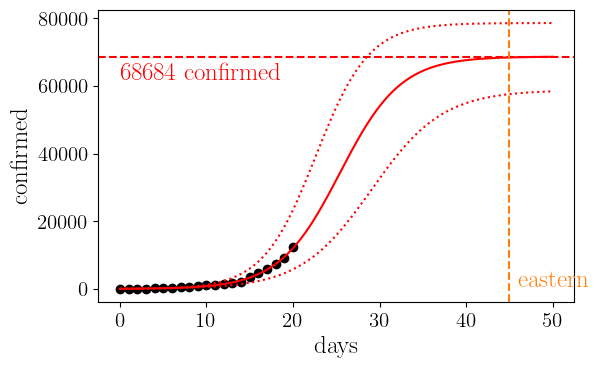
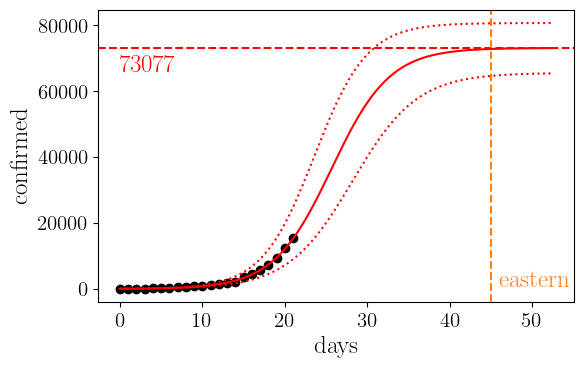
Implement scaling factor for larger populations (still an issue)

diff --git a/models.py b/models.py
@@ -19,58 +19,78 @@ class SimplePandemie:
         self.t_death = t_death
         self.t_confirmed = t_confirmed
         self.total_population = total_population
-        self.scale = 1      # scaling each case to save memory
 
         self.infected = np.zeros(nbuffer).astype(bool)
         self.infected[:infected_start] = True
         self.susceptible = total_population
-        self.dead, self.cured, self.confirmed = 0, 0, 0
+        self.infected_total, self.infected_total_confirmed = infected_start, 0
+        self.infected_day, self.infected_day_confirmed = 0, 0
+        self.dead, self.dead_day, self.cured = 0, 0, 0
         self.days = np.zeros(nbuffer).astype(np.uint)
         self.days_to_contagious = np.zeros(nbuffer).astype(np.uint)
         self.days_to_death = -np.ones(nbuffer).astype(np.int)
         self.days_to_cure = -np.ones(nbuffer).astype(np.int)
         self.days_to_detect = -np.ones(nbuffer).astype(np.int)
-        self.days_to_contagious[self.infected] = np.random.poisson(lam=t_contagious, size=infected_start)
+        self._assign_timing(np.arange(infected_start))
+
+        self.scale = 1
+        self.scale_th = 0.5
+        self.scale_each = np.ones(nbuffer).astype(int)
 
     def infect(self):
-        immune = self.cured + np.sum(self.infected)
+        immune = self.cured + np.sum(self.scale_each*self.infected)
         n_eff = self.n_p * (self.total_population - immune) / self.total_population
-        n_infections = np.sum(np.random.poisson(n_eff*self.attack_rate, size=np.sum(self.is_contagious())))
-        self.susceptible -= n_infections
-        idx = np.where(~self.infected)[0][:n_infections]
-        self.infected[idx] = True
-        self.days_to_contagious[idx] = np.random.poisson(lam=self.t_contagious, size=n_infections)
-        n_deaths = np.sum(np.random.rand(n_infections) <= self.lethality)
-        idx_dying = idx[:n_deaths]
-        idx_cure = idx[n_deaths:]
-        self.days_to_death[idx_dying] = np.random.poisson(lam=self.t_death, size=len(idx_dying))
-        self.days_to_cure[idx_cure] = np.random.poisson(lam=self.t_cured, size=len(idx_cure))
-        n_confirmed = np.sum(np.random.rand(n_infections - n_deaths) <= self.detection_rate)
-        idx_confirmed = idx[:(n_deaths + n_confirmed)]
-        self.days_to_detect[idx_confirmed] = np.random.poisson(lam=self.t_confirmed, size=n_confirmed + n_deaths)
-
-    def _reset(self, idx):
-        self.infected[idx] = False
-        self.days[idx] = 0
-        self.days_to_contagious[idx] = 0
-        self.days_to_death[idx] = -1
-        self.days_to_cure[idx] = -1
-        self.days_to_detect[idx] = -1
-
-    def die(self):
-        idx = self.is_dead()
-        self.dead += np.sum(idx)
-        self.total_population -= np.sum(idx)
-        self._reset(idx)
-
-    def cure(self):
-        idx = self.is_cured()
-        self.cured += np.sum(idx)
-        self._reset(idx)
+        self.infected_day = np.sum(np.random.poisson(n_eff*self.attack_rate, size=np.sum(self.scale_each*self.is_contagious())))
+        self.infected_total += self.infected_day
+        self.susceptible -= self.infected_day
+        selection = np.cumsum(~self.infected * self.scale_each) <= self.infected_day
+        select_idx = np.where(~self.infected * selection)[0]
+        self.infected[select_idx] = True
+        self._assign_timing(select_idx)
 
     def detect(self):
-        idx = self.is_detected()
-        self.confirmed += np.sum(idx)
+        self.infected_day_confirmed = np.sum(self.scale_each * self.is_detected())
+        self.infected_total_confirmed += self.infected_day_confirmed
+
+    def cure(self):
+        mask_cured = self.is_cured()
+        self.cured += np.sum(self.scale_each*mask_cured)
+        self._reset(mask_cured)
+
+    def die(self):
+        mask_die = self.is_dead()
+        self.dead_day = np.sum(self.scale_each*mask_die)
+        self.dead += self.dead_day
+        self.total_population -= self.dead_day
+        self._reset(mask_die)
+
+    def _assign_timing(self, idx):
+        self.days_to_contagious[idx] = np.random.poisson(lam=self.t_contagious, size=len(idx))
+        n_deaths = np.random.binomial(len(idx), self.lethality)
+        idx_dying = np.random.choice(idx, size=n_deaths, replace=False)
+        idx_cure = idx[np.in1d(idx, idx_dying, invert=True)]
+        self.days_to_death[idx_dying] = np.random.poisson(lam=self.t_death, size=len(idx_dying))
+        self.days_to_cure[idx_cure] = np.random.poisson(lam=self.t_cured, size=len(idx_cure))
+        n_confirmed = np.random.binomial(len(idx_cure), self.detection_rate)
+        idx_confirmed = np.append(idx_dying, np.random.choice(idx_cure, size=n_confirmed, replace=False))
+        self.days_to_detect[idx_confirmed] = np.random.poisson(lam=self.t_confirmed, size=len(idx_confirmed))
+
+    def _reset(self, mask):
+        self.infected[mask] = False
+        self.days[mask] = 0
+        self.days_to_contagious[mask] = 0
+        self.days_to_death[mask] = -1
+        self.days_to_cure[mask] = -1
+        self.days_to_detect[mask] = -1
+        self.scale_each[mask] = self.scale
+
+    def _scale(self):
+        if np.sum(self.infected) > self.scale_th * len(self.infected):
+            self.scale += 1
+            self.scale_th *= 1.5
+        elif self.scale > 1:
+            self.scale -= 1
+            self.scale_th /= 1.5
 
     def is_contagious(self):
         return self.infected & (self.days == self.days_to_contagious)
@@ -85,11 +105,12 @@ class SimplePandemie:
         return self.infected & (self.days == self.days_to_detect)
 
     def update(self):
-        self.days[self.infected] += 1
         self.infect()
         self.detect()
         self.cure()
         self.die()
+        self._scale()
+        self.days[self.infected] += 1
 
 
 if __name__ == "__main__":
@@ -99,23 +120,23 @@ if __name__ == "__main__":
     mpl.rcParams.update(with_latex)
 
     days = np.arange(100)
-    infected = np.zeros(days.size)
-    confirmed = np.zeros(days.size)
-    cured = np.zeros(days.size)
-    dead = np.zeros(days.size)
-    world = SimplePandemie(lethality=0.2, detection_rate=1, total_population=10000, nbuffer=10000)
+    infected, infected_confirmed = np.zeros(days.size), np.zeros(days.size)
+    infected_day, infected_day_confirmed = np.zeros(days.size), np.zeros(days.size)
+    cured, dead = np.zeros(days.size), np.zeros(days.size)
+    world = SimplePandemie(lethality=0.2, detection_rate=0.8, total_population=10000, nbuffer=10000)
     for i in days:
         world.update()
-        infected[i] = np.sum(world.infected)
-        confirmed[i] = world.confirmed
-        cured[i] = world.cured
-        dead[i] = world.dead
+        infected[i], infected_confirmed[i] = world.infected_total, world.infected_total_confirmed
+        infected_day[i], infected_day_confirmed[i] = world.infected_day, world.infected_day_confirmed
+        cured[i], dead[i] = world.cured, world.dead
 
-    plt.plot(days, infected, color='blue', label='infected')
-    plt.plot(days, confirmed, color='k', label='cases')
+    plt.plot(days, infected, color='blue', label='infected (total)')
+    plt.plot(days, infected_confirmed, color='blue', ls='dashed', label='infected (confirmed)')
+    plt.plot(days, infected_day, color='k', label='new infections (total)')
+    plt.plot(days, infected_day_confirmed, color='k', ls='dashed', label='new infections (confirmed)')
     plt.plot(days, dead, color='red', label='dead')
     plt.plot(days, cured, color='green', label='cured')
-    plt.legend(loc='upper left')
+    plt.legend(loc='upper left', fontsize=14)
     # plt.yscale('log')
     plt.xlabel("days")
     plt.ylabel("counts")

diff --git a/fit_data.py b/fit_data.py
@@ -25,7 +25,7 @@ plt.plot(x, models.logistic_function(x, *popt), color='red')
 plt.plot(x, models.logistic_function(x, popt[0]+perr[0], popt[1], popt[2]), color='red', ls='dotted')
 plt.plot(x, models.logistic_function(x, popt[0]-perr[0], popt[1], popt[2]), color='red', ls='dotted')
 plt.axhline(popt[0], color='red', ls='dashed')
-plt.text(days[int(np.rint(0.02*len(days)))], 0.9*popt[0], s='%i confirmed' % popt[0], color='red')
+plt.text(days[int(np.rint(0.02*len(days)))], 0.9*popt[0], s='%i' % popt[0], color='red')
 plt.axvline(45, color='C1', ls='dashed')
 plt.text(46, 0.01*popt[0], s='eastern', color='C1')
 plt.xlabel('days')
